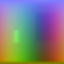
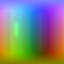
Bomb sculptie: rotate 45° for the diagonal (X) config
The updated bomb map carries blast spikes on the orthogonal faces (default
bombDiag=0); add an extra 45° to its prim rotation when bombDiag==1 so the
spikes point at the diagonals. Also picks up the refreshed stunner/oneway/
trimir/bomb maps and the doc updates.

diff --git a/sculpties/CLAUDE.md b/sculpties/CLAUDE.md
@@ -20,10 +20,10 @@ fallback for any type whose `SCULPT` entry is `""`.
 |---|------|----------|-----------|--------------|-------|
 | 1 | King | `king_sculptmap` | Cylinder | no | tall; `SCULPT_SIZE` Z already raised |
 | 2 | Laser | `laser_sculptmap` | Cylinder | **yes** | barrel points at the facing dir |
-| 3 | Stunner | `stunner_sculptmap` | Cylinder | **yes** | front nub + rear shield ridge |
-| 4 | One-Way Mirror | `oneway_sculptmap` | Cylinder | **yes** | thin panel; the map is thin in Y on purpose — keep `SCULPT_SIZE` X≈Y so it stays thin |
-| 5 | Triangular Mirror | `trimir_sculptmap` | Cylinder | **yes** | flat face forward, vertex at back |
-| 6 | Bomb | `bomb_sculptmap` | Cylinder | no | round + fuse; orient only matters for the orthogonal/diagonal bombDiag art, which the shape doesn't show |
+| 3 | Stunner | `stunner_sculptmap` | Cylinder | **yes** | octagon; 8 faces = `g-v-s-v-s-v-s-v` from the front (gun, then alternating vulnerable/shield). Front face = gun = the firing direction; keep `SCULPT_SIZE` X≈Y so the octagon isn't squashed |
+| 4 | One-Way Mirror | `oneway_sculptmap` | Cylinder | **yes** | arrow; it points the **pass-through** direction. Keep `SCULPT_SIZE` X≈Y so the arrow stays proportioned (a flatter Z reads as a marker) |
+| 5 | Triangular Mirror | `trimir_sculptmap` | Cylinder | **yes** | right triangle, reflective face = hypotenuse (front), right-angle vertex at back; keep `SCULPT_SIZE` X≈Y |
+| 6 | Bomb | `bomb_sculptmap` | Cylinder | **yes (config)** | 4 blast spikes point at the orthogonal faces (explosion sides, default `bombDiag=0`). When `bombDiag=1`, rotate the prim an extra **45°** so the spikes point at the diagonals. Keep `SCULPT_SIZE` X≈Y |
 | 7 | **Hypergon** | `hypergon_sculptmap` | **Sphere** | no | the ONLY Sphere-stitched piece — see required change below |
 | 8 | Beam Splitter | `splitter_sculptmap` | Cylinder | **yes** | diamond; splitting edge faces forward |
 | 9 | Partially-Mirrored Octagon | `poct_sculptmap` | Cylinder | **yes** | thicker shield on the 3 rear faces |
@@ -69,7 +69,10 @@ Hole/Hyper Hole (11/12) have no sculptie — leave their `SCULPT` entries `""`.
    (i.e. `orient * 45°`), consistent with the existing `TEX_ROT_SIGN` logic. Test
    one directional piece (e.g. Laser): if it points the wrong way, flip
    `SCULPT_ROT_SIGN`; if a specific map is upside-down, set its `SCULPT_FLIP`
-   entry to 1. Non-directional pieces (King, Bomb, Hypergon, Full Oct) don't care.
+   entry to 1. Truly non-directional pieces (King, Hypergon, Full Oct) don't
+   care. **Bomb** is a special case: it has no per-facing art, but add an extra
+   **45°** to its Z rotation when `bombDiag == 1` so its blast spikes point at
+   the diagonals.
 
 4. **Sizing.** The maps encode positions in the `[-1,1]` box, so `SCULPT_SIZE`
    is just the prim's bounding box; axes the model doesn't fill stay

diff --git a/sculpties/README.md b/sculpties/README.md
@@ -13,10 +13,10 @@ Generated by the dependency-free tool in the sibling `sculptie-test` repo
 |------|-------|-----------|-------|
 | `king_sculptmap.png` | King (type 1, `K`) | **Cylinder** | Surface-of-revolution body with a flat foot, an 8-lobed crown, and an orb finial. Taller than wide already; scale up Z a little for a statelier piece. |
 | `laser_sculptmap.png` | Laser (type 2, `L`) | **Cylinder** | Round body with a barrel pointing at the facing direction (asymmetric — directional). |
-| `stunner_sculptmap.png` | Stunner (type 3, `S`) | **Cylinder** | Domed bell with a front emitter nub and a raised 135° rear shield ridge. Directional. |
-| `oneway_sculptmap.png` | One-Way Mirror (type 4, `O`) | **Cylinder** | Thin upright panel; its flat face points at the facing direction. |
-| `trimir_sculptmap.png` | Triangular Mirror (type 5, `T`/`t`) | **Cylinder** | Triangular prism — one flat reflective face forward, exposed vertex at the back. |
-| `bomb_sculptmap.png` | Bomb (type 6, `B`) | **Cylinder** | Round body on a small flat base with a short fuse stem on top. |
+| `stunner_sculptmap.png` | Stunner (type 3, `S`) | **Cylinder** | Octagon, 8 faces = `g-v-s-v-s-v-s-v` clockwise from the front: gun barrel on the front face, raised mirror plates on the 3 shield faces, recessed vulnerable faces. Directional. |
+| `oneway_sculptmap.png` | One-Way Mirror (type 4, `O`) | **Cylinder** | Arrow token — points in the direction a beam **passes through** (with the arrow = pass; against = reflect). Directional. |
+| `trimir_sculptmap.png` | Triangular Mirror (type 5, `T`/`t`) | **Cylinder** | Right triangle; the reflective face is the **hypotenuse** (long front face), right-angle vertex at the back. Directional. |
+| `bomb_sculptmap.png` | Bomb (type 6, `B`) | **Cylinder** | Round body with 4 blast spikes on the orthogonal faces (explosion sides, default config) and smooth diagonals (vulnerable). Rotate 45° for the diagonal config. |
 | `hypergon_sculptmap.png` | Hypergon (type 7, `H`) | **Sphere** | Faceted octagonal bipyramid (gem) — points top and bottom. |
 | `splitter_sculptmap.png` | Beam Splitter (type 8, `P`) | **Cylinder** | Square "diamond" prism — a vertical splitting edge faces forward. |
 | `poct_sculptmap.png` | Partially-Mirrored Octagon (type 9, `m`) | **Cylinder** | Octagonal prism with a thicker 135° shield on the 3 rear faces. Directional. |
